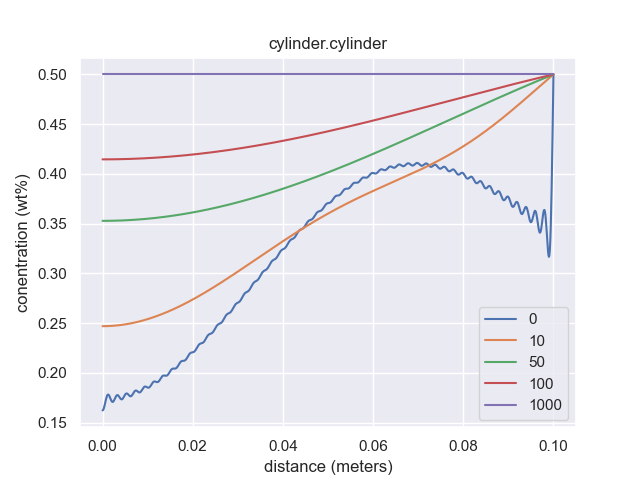
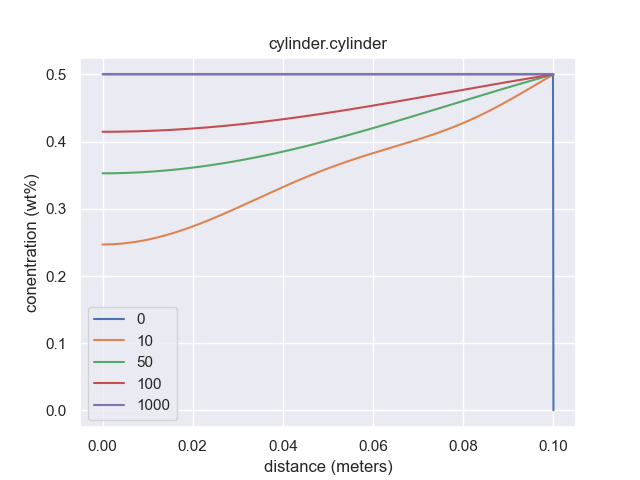
t=0

diff --git a/fick1d/thin_film.py b/fick1d/thin_film.py
@@ -1,5 +1,8 @@
-import numpy as np
+from numpy import exp,pi,sin,array,linspace, zeros, sqrt
 from scipy.special import erf
+from warnings import filterwarnings
+
+filterwarnings("error")
 
 def thin_film(T, X, D, c0, b, xstep = 1000 ):
     ''' 
@@ -10,36 +13,37 @@ def thin_film(T, X, D, c0, b, xstep = 1000 ):
     c1: initial concentration
     c0: constant conentration at surface
     '''
-    total = np.zeros((len(T), xstep))
+    total = zeros((len(T), xstep))
     for count_t,t in enumerate(T):
-        for count_x,x in enumerate(np.linspace(-X,X,xstep)):
-            try:
-                total[count_t,count_x] = c0*(b/2)*np.exp(-x**2/(4*D*t))/np.sqrt(np.pi*D*t)
-            except RuntimeWarning:
-                start = int(xstep/2 + (-b/2)*xstep)
-                stop = int(xstep/2 + (b/2)*xstep)
-                total[0,start:stop] = c0
+        if t == 0:
+            b_size = int((b/(2*X)) * xstep)
+            start = int(xstep/2 - b_size/2)
+            stop = int(xstep/2 + b_size/2)
+            total[0,start:stop] = c0
+        else:
+            for count_x,x in enumerate(linspace(-X,X,xstep)):
+                total[count_t,count_x] = c0*(b/2)*exp(-x**2/(4*D*t))/sqrt(pi*D*t)
     return total
 # def both_thin(T, Xlow, Xhi, D, c0, cb, b, xstep = 1000):
-#     tCrit=((2/b)**-2)/(np.pi*D)
-#     total = np.zeros((len(T), xstep))
+#     tCrit=((2/b)**-2)/(pi*D)
+#     total = zeros((len(T), xstep))
 #     for count_t, t in enumerate(T):
 #         if t<tCrit:
-#             for count_x, x in enumerate(np.linspace(Xlow, Xhi, xstep)):
-#                 total[count_t, count_x] = (cb/2)*(1-erf((x-.05)/np.sqrt(4*D*t)))
+#             for count_x, x in enumerate(linspace(Xlow, Xhi, xstep)):
+#                 total[count_t, count_x] = (cb/2)*(1-erf((x-.05)/sqrt(4*D*t)))
 #         else:
-#             for count_x, x in enumerate(np.linspace(Xlow, Xhi, xstep)):
-#                 total[count_t, count_x] = c0 * (b/2)*np.exp(-x**2/(4*D*t))/np.sqrt(np.pi*D*t)
+#             for count_x, x in enumerate(linspace(Xlow, Xhi, xstep)):
+#                 total[count_t, count_x] = c0 * (b/2)*exp(-x**2/(4*D*t))/sqrt(pi*D*t)
 
 #         return total,tCrit
 
 def early_thin_film(T, D, X, cs, c0, xstep = 1000, Xoff = 0):
-    total_pos = np.zeros((len(T), xstep))
+    total_pos = zeros((len(T), xstep))
     total_neg = total_pos
     for count_t, t in enumerate(T):
-        for count_x, x in enumerate(np.linspace(-X, X, xstep)):
-            total_pos[count_t, count_x] = (c0-cs)*(erf((x+1)/np.sqrt(4*D*t)))+cs
+        for count_x, x in enumerate(linspace(-X, X, xstep)):
+            total_pos[count_t, count_x] = (c0-cs)*(erf((x+1)/sqrt(4*D*t)))+cs
     for count_t, t in enumerate(T):
-        for count_x, x in enumerate(np.linspace(-X, X, xstep)):
-            total_neg[count_t, count_x] = -(c0-cs)*(erf((x-1)/np.sqrt(4*D*t)))+cs
+        for count_x, x in enumerate(linspace(-X, X, xstep)):
+            total_neg[count_t, count_x] = -(c0-cs)*(erf((x-1)/sqrt(4*D*t)))+cs
     return total_pos, total_neg

diff --git a/tests/test_class.py b/tests/test_class.py
@@ -1,9 +1,4 @@
-
-import fick1d.slab as slab
-import fick1d.couple as couple
-import fick1d.sphere as sphere
-import fick1d.thin_film as thin_film
-import fick1d.cylinder as cylinder
+import fick1d
 import matplotlib.pyplot as plt
 from numpy import exp,pi,sin,array,linspace, zeros
 from seaborn import set
@@ -30,21 +25,21 @@ def plot_results( result, fun, size, T, symx = False):
 
 class TestClass:
     def test_sphere(self):
-        results = sphere.sphere( t, x, d, 0, 0.1)
+        results = fick1d.sphere.sphere( t, x, d, 0, 0.1)
         plot_results(results,"sphere.sphere", x, t)
-        results = sphere.mean(t, x, d, .1, 0)
+        results = fick1d.sphere.mean(t, x, d, .1, 0)
     def test_slab(self):
-        results = slab.slab(t, x, d, .8, 0)
+        results = fick1d.slab.slab(t, x, d, .8, 0)
         plot_results(results,"slab.slab", x, t)
-        results = slab.mean(t, x, d, .8, 0)
+        results = fick1d.slab.mean(t, x, d, .8, 0)
     def test_cylinder(self):
-        results = cylinder.cylinder(t, x, d, 0, .5)
+        results = fick1d.cylinder.cylinder(t, x, d, 0, .5)
         plot_results(results, "cylinder.cylinder", x, t)
     def test_couple(self):
-        results = couple.couple(t, d, -.5, .5, x)
+        results = fick1d.couple.couple(t, d, -.5, .5, x)
         plot_results(results, "couple.couple", .5, t, symx = True)
     def test_thin_film(self):
-        results = thin_film.thin_film(t, x, d, 1, .01)
-        plot_results(results,"thin_film.thin_film", 2, t, symx = True)
+        results = fick1d.thin_film.thin_film(t, x, d, 1, .01)
+        plot_results(results,"thin_film.thin_film", x, t, symx = True)
         # thin_film.early_thin_film([0,10,100,1000], -.5, .5, 1, .2, d)
         # thin_film.both_thin()

diff --git a/fick1d/slab.py b/fick1d/slab.py
@@ -37,9 +37,14 @@ def slab( T, h, D, ci, cf, Xoffset = 0, tol = 1e-8, xstep = 1000):
 
     total = zeros((len(T),xstep))
     for count_t,t in enumerate(T):
-        for count_x,x in enumerate(linspace(0,h,xstep)):
-            dic = {'D' : D, 't' : t, 'x' : x, 'h' : h, 'Xoffset' : Xoffset}
-            total[count_t,count_x] = sum_value(dic, tol = tol, fun = series_slab)
+        if t == 0:
+            total[0,:] = ci
+            total[0,0] = cf
+            total[0,xstep-1]
+        else:
+            for count_x,x in enumerate(linspace(0,h,xstep)):
+                dic = {'D' : D, 't' : t, 'x' : x, 'h' : h, 'Xoffset' : Xoffset}
+                total[count_t,count_x] = sum_value(dic, tol = tol, fun = series_slab)
     return (cf-ci)*(1-(4/pi)*total)+ci
 
 def mean( T, h, D, ci, cf, tol = 1e-8): 

diff --git a/fick1d/cylinder.py b/fick1d/cylinder.py
@@ -44,7 +44,10 @@ def cylinder( T, R, D, c1, c0, tol = 1e-8, rstep = 1000):
     roots = jn_zeros(0, 100) / R
 
     for count_t,t in enumerate(T):
-        for count_x,x in enumerate(linspace(0,R,rstep)):
-            dic = {'D' : D, 't' : t, 'x' : x, 'R' : R}
-            total[count_t,count_x] = sum_value(dic, tol = tol, fun = cylinder_series, roots = roots)
+        if t == 0:
+            total[0,rstep-1] = sqrt(R)/2
+        else:
+            for count_x,x in enumerate(linspace(0,R,rstep)):
+                dic = {'D' : D, 't' : t, 'x' : x, 'R' : R}
+                total[count_t,count_x] = sum_value(dic, tol = tol, fun = cylinder_series, roots = roots)
     return (c0-c1)*(1 - (2/sqrt(R))*total)+c1

diff --git a/fick1d/sphere.py b/fick1d/sphere.py
@@ -51,7 +51,10 @@ def sphere( T, R, D, c1, c0, tol = 1e-8, rstep = 1000):
     
     total = zeros((len(T),rstep))
     for count_t,t in enumerate(T):
-        for count_x,x in enumerate(linspace(0,R,rstep)):
-            dic = {'D' : D, 't' : t, 'x' : x, 'R' : R}
-            total[count_t,count_x] = sum_value(dic, tol = tol, fun = sphere_series) / x
+        if t == 0:
+            total[0,rstep-1] = -pi/(2*R)
+        else:
+            for count_x,x in enumerate(linspace(0,R,rstep)):
+                dic = {'D' : D, 't' : t, 'x' : x, 'R' : R}
+                total[count_t,count_x] = sum_value(dic, tol = tol, fun = sphere_series) / x
     return (c0-c1)*(1+((2*R)/(pi))*total)+c1
